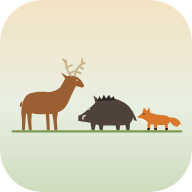
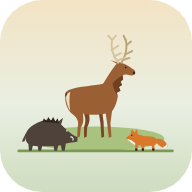
Hirsch neu gezeichnet, Tiere im Dreieck angeordnet
Claude-Session: https://claude.ai/code/session_014VAtzQWDM6aKfPUvUN9ENA

Changed region(s): [[0.0625, 0.1875, 0.9688, 0.8125]]

diff --git a/index.html b/index.html
@@ -71,8 +71,8 @@ header.top .wrap{display:flex;align-items:center;gap:12px;padding-block:14px 18p
 
 .empty{text-align:center;color:var(--muted);padding:36px 12px 12px}
 .tiere{display:block;color:var(--forest);--tusk:var(--bg);overflow:visible}
-.tiere.big{width:min(300px,90%);height:auto;margin:0 auto 8px}
-.tiere.foot{width:190px;height:auto;margin:32px auto 0;opacity:.85}
+.tiere.big{width:min(280px,85%);height:auto;margin:0 auto 8px}
+.tiere.foot{width:170px;height:auto;margin:32px auto 0;opacity:.85}
 .empty p{max-width:30ch;margin:8px auto}
 
 .spacer{height:calc(110px + env(safe-area-inset-bottom))}
@@ -177,7 +177,7 @@ details.more .inner{padding:0 16px 16px;display:flex;flex-direction:column;gap:1
   <div class="summary" id="summary"></div>
   <button class="add" id="addBtn"><svg viewBox="0 0 24 24" fill="none" stroke="currentColor" stroke-width="2.6" stroke-linecap="round"><path d="M12 5v14M5 12h14"/></svg>Abschuss eintragen</button>
   <div id="entries"></div>
-  <svg class="tiere foot" id="tiereFoot" aria-hidden="true" viewBox="6 -6 304 134"><g fill="#9a5f33"><path d="M34 66 C38 56 52 53 68 54 C82 55 90 52 96 46 L103 34 C105 28 110 25 116 26 L124 28 C128 30 132 34 135 39 L137 43 C137 46 134 47 131 46 L123 44 C120 50 117 56 114 62 C111 70 108 76 104 81 C101 85 96 88 92 89 L90 102 L91 120 L86 120 L84 103 L82 92 L77 92 L78 120 L73 120 L71 92 C62 93 54 93 47 91 L46 104 L47 120 L42 120 L40 104 L39 92 L37 91 L35 120 L30 120 L30 100 C28 90 29 76 34 66 Z"/><path d="M31 70 C27 72 25 77 27 81 L30 78 Z"/><path d="M110 28 L97 21 L106 33 Z"/></g><g fill="none" stroke="#c9b48a" stroke-width="3.4" stroke-linecap="round" stroke-linejoin="round"><path d="M114 26 C108 18 104 10 106 0"/><path d="M112 22 L122 18"/><path d="M107 12 L116 8"/><path d="M106 4 L101 -2"/><path d="M121 26 C122 16 128 8 138 4"/><path d="M123 19 L131 22"/><path d="M128 10 L135 14"/><path d="M133 6 L134 -2"/></g><g fill="#4e423a"><path d="M127 95 L131 94 C139 89 149 80 158 71 C168 63 182 62 194 67 C207 72 216 78 220 88 C223 96 221 104 216 108 L215 120 L210 120 L208 111 L199 112 L198 120 L193 120 L191 112 L170 112 L169 120 L164 120 L162 111 L157 110 L155 120 L150 120 L148 107 C141 106 134 105 129 104 L127 104 Z"/><path d="M157 74 L153 60 L165 70 Z"/><path fill="#2f2722" d="M160 70 L163 61 L167 67 L171 59 L175 66 L180 59 L183 66 L188 61 L190 68 Z"/><path d="M219 85 L225 97 L228 104 L223 103 L221 97 Z"/></g><path d="M135 101 C134 97 136 95 139 95" fill="none" stroke="#f6f1e4" stroke-width="2" stroke-linecap="round"/><circle cx="146" cy="84" r="1.4" fill="#f6f1e4"/><circle cx="125" cy="34" r="1.3" fill="#f6f1e4"/><g><path fill="#d9772b" d="M229 97 L237 91 L240 81 L245 87 L249 81 L251 90 C257 92 262 94 269 94 C277 94 283 96 285 100 C286 104 284 108 281 110 L281 120 L277 120 L276 111 L263 111 L262 120 L258 120 L257 110 L251 110 L250 120 L246 120 L246 106 C243 104 240 101 236 100 L231 99 Z"/><path fill="#d9772b" d="M283 99 C294 96 303 103 305 113 C300 117 291 114 285 106 Z"/><path fill="#f6f1e4" d="M305 113 C302 116 298 116 296 114 C299 113 302 111 303 108 Z"/><path fill="#f6f1e4" d="M231 99 L236 100 C240 101 243 104 246 106 L246 110 C241 108 236 103 231 99 Z"/><path fill="#2a211c" d="M246 116 L246 120 L250 120 L250 116 Z M258 116 L258 120 L262 120 L262 116 Z M277 116 L277 120 L281 120 L281 116 Z"/><circle cx="240" cy="92" r="1.2" fill="#2a211c"/></g><rect x="12" y="120" width="294" height="4" rx="2" fill="#7c9a52"/></svg>
+  <svg class="tiere foot" id="tiereFoot" aria-hidden="true" viewBox="0 -14 300 224"><ellipse cx="150" cy="176" rx="125" ry="22" fill="#a9c27f"/><rect x="8" y="196" width="284" height="5" rx="2.5" fill="#7c9a52"/><g transform="translate(58 -6) scale(0.96)"><g><path fill="#7a4626" d="M108 134 L111 158 L112 186 L107 188 L105 160 L101 136 Z M82 138 C86 150 85 160 80 168 L79 186 L74 188 L74 168 C78 158 77 150 73 140 Z"/><path fill="#9a5f33" d="M44 98 C66 90 94 90 110 86 C118 74 126 60 134 50 L140 45 C149 46 160 53 168 59 C172 62 172 67 169 69 C165 71 161 70 157 69 C153 68 150 68 147 70 L148 78 L143 82 L146 88 L140 92 L143 99 L136 103 L138 110 C136 122 132 132 127 138 L124 160 L126 186 L121 188 L118 162 L115 142 C104 145 84 146 72 142 C73 152 74 160 68 168 L66 186 L61 188 L62 168 C65 158 61 150 53 144 C42 136 37 120 39 108 C40 103 41 100 44 98 Z"/><path fill="#6e4122" d="M147 70 L148 78 L143 82 L146 88 L140 92 L143 99 L136 103 L138 110 C134 104 130 96 128 86 C132 80 138 74 147 70 Z"/><path fill="#e9dcc0" d="M40 106 C39 116 42 128 48 138 C46 126 46 112 48 101 Z"/><path fill="#6e4122" d="M42 100 C38 102 37 108 39 112 L42 106 Z"/><path fill="#9a5f33" d="M139 50 L124 41 L136 45 Z"/><circle cx="153" cy="55" r="1.6" fill="#2a211c"/><path fill="#2a211c" d="M168 62 C171 64 171 67 169 68 L166 66 Z"/></g><g fill="none" stroke="#d6c49c" stroke-width="3.6" stroke-linecap="round" stroke-linejoin="round"><g stroke="#b9a578"><path d="M145 46 C153 32 157 18 153 2"/><path d="M147 41 L160 37"/><path d="M153 30 L165 24"/><path d="M155 12 L163 6"/><path d="M153 4 L149 -5"/></g><path d="M139 46 C129 34 124 20 127 2"/><path d="M137 42 L151 37"/><path d="M131 34 L144 28"/><path d="M126 22 L139 14"/><path d="M127 4 L134 -5"/><path d="M127 3 L120 -5"/></g></g><g transform="translate(244 78) scale(-1 1)"><g fill="#4e423a"><path d="M127 95 L131 94 C139 89 149 80 158 71 C168 63 182 62 194 67 C207 72 216 78 220 88 C223 96 221 104 216 108 L215 120 L210 120 L208 111 L199 112 L198 120 L193 120 L191 112 L170 112 L169 120 L164 120 L162 111 L157 110 L155 120 L150 120 L148 107 C141 106 134 105 129 104 L127 104 Z"/><path d="M157 74 L153 60 L165 70 Z"/><path fill="#2f2722" d="M160 70 L163 61 L167 67 L171 59 L175 66 L180 59 L183 66 L188 61 L190 68 Z"/><path d="M219 85 L225 97 L228 104 L223 103 L221 97 Z"/></g><path d="M135 101 C134 97 136 95 139 95" fill="none" stroke="#f6f1e4" stroke-width="2" stroke-linecap="round"/><circle cx="146" cy="84" r="1.4" fill="#f6f1e4"/></g><g transform="translate(-24 78)"><g><path fill="#d9772b" d="M229 97 L237 91 L240 81 L245 87 L249 81 L251 90 C257 92 262 94 269 94 C277 94 283 96 285 100 C286 104 284 108 281 110 L281 120 L277 120 L276 111 L263 111 L262 120 L258 120 L257 110 L251 110 L250 120 L246 120 L246 106 C243 104 240 101 236 100 L231 99 Z"/><path fill="#d9772b" d="M283 99 C294 96 303 103 305 113 C300 117 291 114 285 106 Z"/><path fill="#f6f1e4" d="M305 113 C302 116 298 116 296 114 C299 113 302 111 303 108 Z"/><path fill="#f6f1e4" d="M231 99 L236 100 C240 101 243 104 246 106 L246 110 C241 108 236 103 231 99 Z"/><path fill="#2a211c" d="M246 116 L246 120 L250 120 L250 116 Z M258 116 L258 120 L262 120 L262 116 Z M277 116 L277 120 L281 120 L281 116 Z"/><circle cx="240" cy="92" r="1.2" fill="#2a211c"/></g></g></svg>
   <button class="helplink" id="openHelp"><svg viewBox="0 0 24 24" fill="none" stroke="currentColor" stroke-width="2" stroke-linecap="round" stroke-linejoin="round"><circle cx="12" cy="12" r="10"/><path d="M9.1 9a3 3 0 0 1 5.8 1c0 2-3 3-3 3M12 17h.01"/></svg>Problem? Hilfe anfordern</button>
   <p class="ver" id="verMain"></p>
   <div class="spacer"></div>
@@ -450,7 +450,7 @@ function render(){
   const box = $('#entries');
   $('#tiereFoot').style.display = list.length ? '' : 'none';
   if(!list.length){
-    box.innerHTML = `<div class="empty"><svg class="tiere big" aria-hidden="true" viewBox="6 -6 304 134"><g fill="#9a5f33"><path d="M34 66 C38 56 52 53 68 54 C82 55 90 52 96 46 L103 34 C105 28 110 25 116 26 L124 28 C128 30 132 34 135 39 L137 43 C137 46 134 47 131 46 L123 44 C120 50 117 56 114 62 C111 70 108 76 104 81 C101 85 96 88 92 89 L90 102 L91 120 L86 120 L84 103 L82 92 L77 92 L78 120 L73 120 L71 92 C62 93 54 93 47 91 L46 104 L47 120 L42 120 L40 104 L39 92 L37 91 L35 120 L30 120 L30 100 C28 90 29 76 34 66 Z"/><path d="M31 70 C27 72 25 77 27 81 L30 78 Z"/><path d="M110 28 L97 21 L106 33 Z"/></g><g fill="none" stroke="#c9b48a" stroke-width="3.4" stroke-linecap="round" stroke-linejoin="round"><path d="M114 26 C108 18 104 10 106 0"/><path d="M112 22 L122 18"/><path d="M107 12 L116 8"/><path d="M106 4 L101 -2"/><path d="M121 26 C122 16 128 8 138 4"/><path d="M123 19 L131 22"/><path d="M128 10 L135 14"/><path d="M133 6 L134 -2"/></g><g fill="#4e423a"><path d="M127 95 L131 94 C139 89 149 80 158 71 C168 63 182 62 194 67 C207 72 216 78 220 88 C223 96 221 104 216 108 L215 120 L210 120 L208 111 L199 112 L198 120 L193 120 L191 112 L170 112 L169 120 L164 120 L162 111 L157 110 L155 120 L150 120 L148 107 C141 106 134 105 129 104 L127 104 Z"/><path d="M157 74 L153 60 L165 70 Z"/><path fill="#2f2722" d="M160 70 L163 61 L167 67 L171 59 L175 66 L180 59 L183 66 L188 61 L190 68 Z"/><path d="M219 85 L225 97 L228 104 L223 103 L221 97 Z"/></g><path d="M135 101 C134 97 136 95 139 95" fill="none" stroke="#f6f1e4" stroke-width="2" stroke-linecap="round"/><circle cx="146" cy="84" r="1.4" fill="#f6f1e4"/><circle cx="125" cy="34" r="1.3" fill="#f6f1e4"/><g><path fill="#d9772b" d="M229 97 L237 91 L240 81 L245 87 L249 81 L251 90 C257 92 262 94 269 94 C277 94 283 96 285 100 C286 104 284 108 281 110 L281 120 L277 120 L276 111 L263 111 L262 120 L258 120 L257 110 L251 110 L250 120 L246 120 L246 106 C243 104 240 101 236 100 L231 99 Z"/><path fill="#d9772b" d="M283 99 C294 96 303 103 305 113 C300 117 291 114 285 106 Z"/><path fill="#f6f1e4" d="M305 113 C302 116 298 116 296 114 C299 113 302 111 303 108 Z"/><path fill="#f6f1e4" d="M231 99 L236 100 C240 101 243 104 246 106 L246 110 C241 108 236 103 231 99 Z"/><path fill="#2a211c" d="M246 116 L246 120 L250 120 L250 116 Z M258 116 L258 120 L262 120 L262 116 Z M277 116 L277 120 L281 120 L281 116 Z"/><circle cx="240" cy="92" r="1.2" fill="#2a211c"/></g><rect x="12" y="120" width="294" height="4" rx="2" fill="#7c9a52"/></svg>
+    box.innerHTML = `<div class="empty"><svg class="tiere big" aria-hidden="true" viewBox="0 -14 300 224"><ellipse cx="150" cy="176" rx="125" ry="22" fill="#a9c27f"/><rect x="8" y="196" width="284" height="5" rx="2.5" fill="#7c9a52"/><g transform="translate(58 -6) scale(0.96)"><g><path fill="#7a4626" d="M108 134 L111 158 L112 186 L107 188 L105 160 L101 136 Z M82 138 C86 150 85 160 80 168 L79 186 L74 188 L74 168 C78 158 77 150 73 140 Z"/><path fill="#9a5f33" d="M44 98 C66 90 94 90 110 86 C118 74 126 60 134 50 L140 45 C149 46 160 53 168 59 C172 62 172 67 169 69 C165 71 161 70 157 69 C153 68 150 68 147 70 L148 78 L143 82 L146 88 L140 92 L143 99 L136 103 L138 110 C136 122 132 132 127 138 L124 160 L126 186 L121 188 L118 162 L115 142 C104 145 84 146 72 142 C73 152 74 160 68 168 L66 186 L61 188 L62 168 C65 158 61 150 53 144 C42 136 37 120 39 108 C40 103 41 100 44 98 Z"/><path fill="#6e4122" d="M147 70 L148 78 L143 82 L146 88 L140 92 L143 99 L136 103 L138 110 C134 104 130 96 128 86 C132 80 138 74 147 70 Z"/><path fill="#e9dcc0" d="M40 106 C39 116 42 128 48 138 C46 126 46 112 48 101 Z"/><path fill="#6e4122" d="M42 100 C38 102 37 108 39 112 L42 106 Z"/><path fill="#9a5f33" d="M139 50 L124 41 L136 45 Z"/><circle cx="153" cy="55" r="1.6" fill="#2a211c"/><path fill="#2a211c" d="M168 62 C171 64 171 67 169 68 L166 66 Z"/></g><g fill="none" stroke="#d6c49c" stroke-width="3.6" stroke-linecap="round" stroke-linejoin="round"><g stroke="#b9a578"><path d="M145 46 C153 32 157 18 153 2"/><path d="M147 41 L160 37"/><path d="M153 30 L165 24"/><path d="M155 12 L163 6"/><path d="M153 4 L149 -5"/></g><path d="M139 46 C129 34 124 20 127 2"/><path d="M137 42 L151 37"/><path d="M131 34 L144 28"/><path d="M126 22 L139 14"/><path d="M127 4 L134 -5"/><path d="M127 3 L120 -5"/></g></g><g transform="translate(244 78) scale(-1 1)"><g fill="#4e423a"><path d="M127 95 L131 94 C139 89 149 80 158 71 C168 63 182 62 194 67 C207 72 216 78 220 88 C223 96 221 104 216 108 L215 120 L210 120 L208 111 L199 112 L198 120 L193 120 L191 112 L170 112 L169 120 L164 120 L162 111 L157 110 L155 120 L150 120 L148 107 C141 106 134 105 129 104 L127 104 Z"/><path d="M157 74 L153 60 L165 70 Z"/><path fill="#2f2722" d="M160 70 L163 61 L167 67 L171 59 L175 66 L180 59 L183 66 L188 61 L190 68 Z"/><path d="M219 85 L225 97 L228 104 L223 103 L221 97 Z"/></g><path d="M135 101 C134 97 136 95 139 95" fill="none" stroke="#f6f1e4" stroke-width="2" stroke-linecap="round"/><circle cx="146" cy="84" r="1.4" fill="#f6f1e4"/></g><g transform="translate(-24 78)"><g><path fill="#d9772b" d="M229 97 L237 91 L240 81 L245 87 L249 81 L251 90 C257 92 262 94 269 94 C277 94 283 96 285 100 C286 104 284 108 281 110 L281 120 L277 120 L276 111 L263 111 L262 120 L258 120 L257 110 L251 110 L250 120 L246 120 L246 106 C243 104 240 101 236 100 L231 99 Z"/><path fill="#d9772b" d="M283 99 C294 96 303 103 305 113 C300 117 291 114 285 106 Z"/><path fill="#f6f1e4" d="M305 113 C302 116 298 116 296 114 C299 113 302 111 303 108 Z"/><path fill="#f6f1e4" d="M231 99 L236 100 C240 101 243 104 246 106 L246 110 C241 108 236 103 231 99 Z"/><path fill="#2a211c" d="M246 116 L246 120 L250 120 L250 116 Z M258 116 L258 120 L262 120 L262 116 Z M277 116 L277 120 L281 120 L281 116 Z"/><circle cx="240" cy="92" r="1.2" fill="#2a211c"/></g></g></svg>
       <p><b>Noch keine Einträge im Jagdjahr ${jyLabel(year)}${f!=='alle'&&multiRev()?' für '+esc(revName(f)):''}.</b></p><p>Tippen Sie auf „Abschuss eintragen“. Das geht auch ohne Netz.</p></div>`;
     return;
   }
